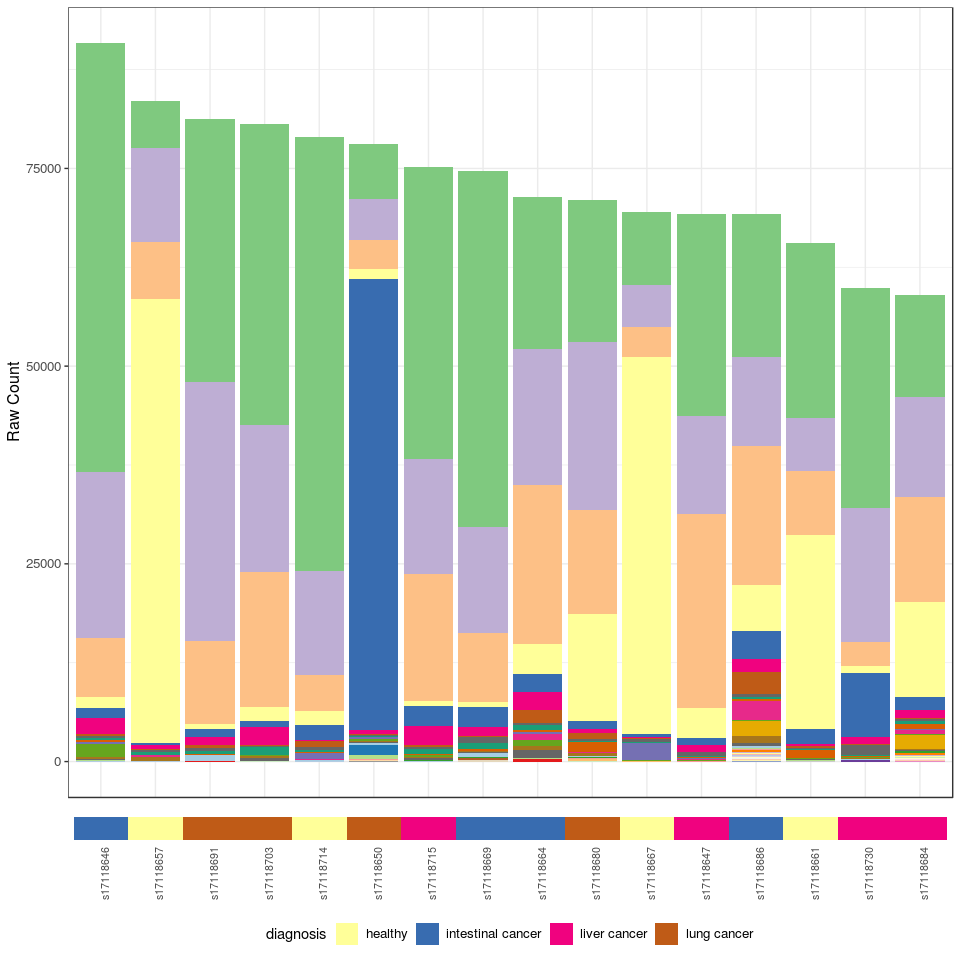
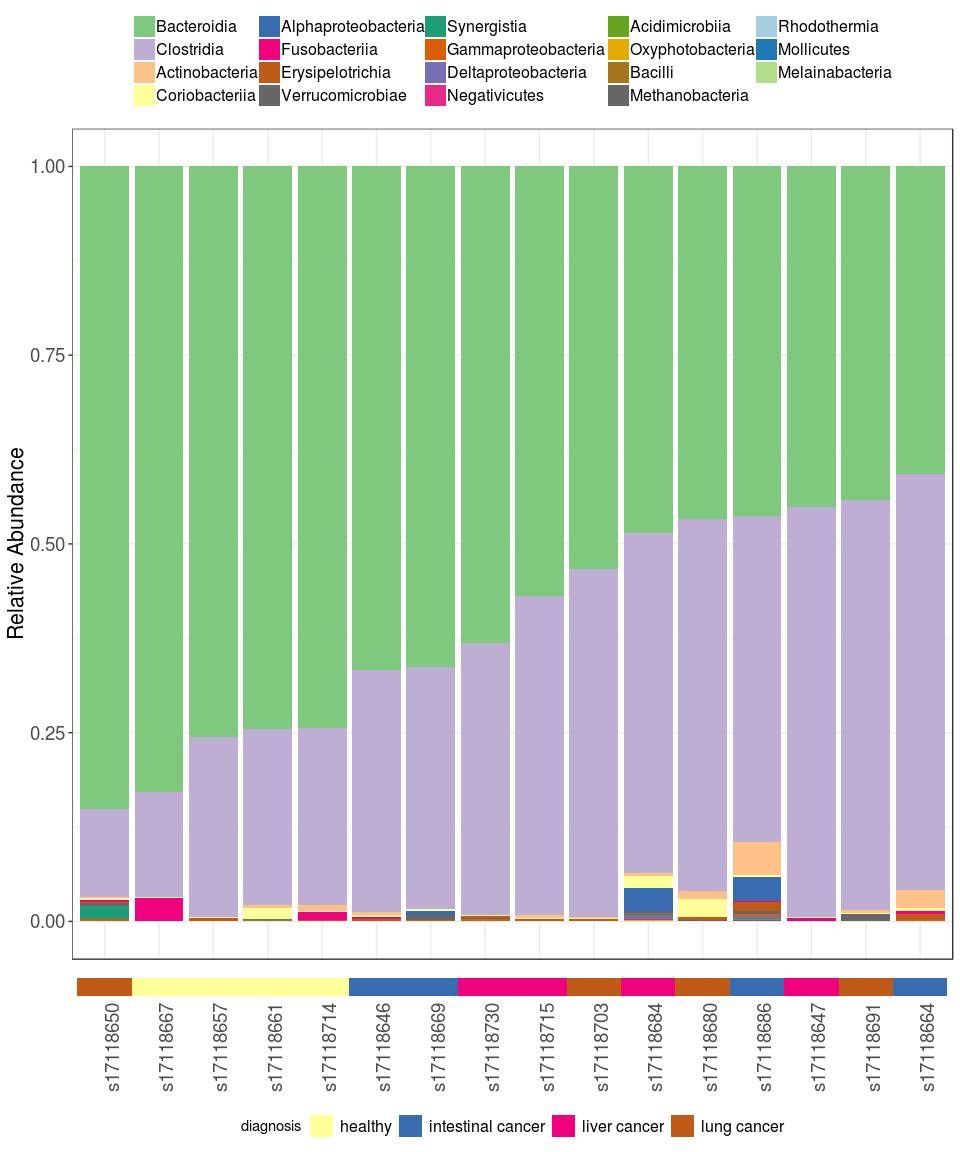
update README files

diff --git a/README.md b/README.md
@@ -90,8 +90,17 @@ track_reads_dada2(demo_dada2_result$reads_track,
 
 ![](README_files/figure-markdown_github/track%20reads-1.png)
 
-Stacked barplot of phylogenetic composition
-===========================================
+Plot sparsity - plot\_sparsity()
+================================
+
+``` r
+plot_sparsity(demo_dada2_result$seq_tab, binwidth = 10)
+```
+
+![](README_files/figure-markdown_github/sparsity-1.png)
+
+Stacked barplot of phylogenetic composition - plot\_stacked\_bar()
+==================================================================
 
 Use plot\_stacked\_bar function to plot the taxonomy level abundance in every sample. You can change the 'level' argument to plot abundance in different level, or change the 'feature' to choose different feature you want to show in x-axis.
 
@@ -99,61 +108,47 @@ Use plot\_stacked\_bar function to plot the taxonomy level abundance in every sa
 
 ``` r
 plot_stacked_bar(phyloseq = demo_phyloseq_object, 
-                 level = "Family")
+                 level = "Class")
 ```
 
 ![](README_files/figure-markdown_github/Stacked%20barplot%201-1.png)
 
-### If legends are too many to show, set legend\_position to "none"
+### Plot in relative abundance
 
 ``` r
 plot_stacked_bar(phyloseq = demo_phyloseq_object, 
-                 level = "Family", 
-                 legend_position = "none")
+                 level = "Class", 
+                 relative_abundance = TRUE)
 ```
 
-![](README_files/figure-markdown_github/Stacked%20barplot%202-1.png)
+![](README_files/figure-markdown_github/Stacked%20barplot%205-1.png)
 
-### If you want to show feature information in x-axis, set "feature" parameter
+### Set "feature" parameter to show feature information
 
 ``` r
 plot_stacked_bar(phyloseq = demo_phyloseq_object, 
-                 level = "Family", 
-                 legend_position = "none", 
+                 level = "Class", 
+                 relative_abundance = TRUE, 
                  feature = "diagnosis")
 ```
 
 ![](README_files/figure-markdown_github/Stacked%20barplot%203-1.png)
 
-### If you want the sample in specific order, pass ordered sample names to "order" parameter
+### Pass ordered sample names to "order" parameter to plot in specific order
 
 ``` r
-sample_order <- sample_names(demo_phyloseq_object)
+sample_order <- extract_metadata_phyloseq(demo_phyloseq_object) %>% arrange(diagnosis) %>% .$SampleID
 plot_stacked_bar(phyloseq = demo_phyloseq_object, 
-                 level = "Family", 
-                 legend_position = "none", 
+                 level = "Class", 
+                 relative_abundance = TRUE, 
                  feature = "diagnosis", 
                  order = sample_order)
 ```
 
 ![](README_files/figure-markdown_github/Stacked%20barplot%204-1.png)
 
-### You can also plot in relative abundance by setting "relative\_abundance" to "TRUE"
-
-``` r
-sample_order <- sample_names(demo_phyloseq_object)
-plot_stacked_bar(phyloseq = demo_phyloseq_object, 
-                 level = "Family", 
-                 legend_position = "none", 
-                 feature = "diagnosis", 
-                 order = sample_order, 
-                 relative_abundance = TRUE)
-```
-
-![](README_files/figure-markdown_github/Stacked%20barplot%205-1.png)
-
-Alpha diversity
-===============
+Alpha diversity - plot\_alpha\_diversity()
+==========================================
 
 Use plot\_alpha\_diversity to plot alpha diversity.
 
@@ -197,8 +192,8 @@ plot_alpha_diversity(phyloseq = demo_phyloseq_object,
 
 ![](README_files/figure-markdown_github/Chao1-1.png)
 
-Beta diversity
-==============
+Beta diversity - plot\_beta\_diversity()
+========================================
 
 Use plot\_beta\_diversity to plot beta diversity. Change 'method' to draw different beta diversity plot. You can locate specific sample in beta diversity plot by the table printed to the screen.
 
@@ -230,10 +225,12 @@ plot_beta_diversity(phyloseq = demo_phyloseq_object,
 
 ![](README_files/figure-markdown_github/Bray-Curtis-1.png)
 
-Log2 fold change
-================
+Log2 fold change - log2fc()
+===========================
 
 Use log2fc function to show differential analysis result.
+
+### Minimum usage
 
 ``` r
 log2fc(phyloseq = demo_phyloseq_object, 
@@ -254,41 +251,31 @@ log2fc(phyloseq = demo_phyloseq_object,
 
 ![](README_files/figure-markdown_github/log2fc%201-1.png)
 
-Choose log2fc reference and treatment by 'reference' and 'treatment' parameters. Both should be one of the levels in 'feature'.
+### Choose a taxonomy level to calculate log2fc.
 
 ``` r
 log2fc(phyloseq = demo_phyloseq_object, 
        feature = "diagnosis", 
        p_value = 0.05, 
-       reference = 'healthy', 
-       treatment = 'liver cancer')
+       level = "Genus")
 ```
 
-    ## [1] "log2 fold change (MLE): diagnosis liver cancer vs healthy"
-    ##       OTU log2FoldChange         padj
-    ## 5  OTU228       22.02247 1.956392e-05
-    ## 6  OTU342       20.01652 1.949445e-04
-    ## 1  OTU154       19.98696 6.976726e-09
-    ## 7  OTU349       19.72481 2.352799e-04
-    ## 8  OTU312       19.59086 2.405934e-04
-    ## 9  OTU164       18.40405 8.190781e-04
-    ## 11 OTU138      -10.69069 1.397755e-02
-    ## 10  OTU32      -13.83664 4.581684e-03
-    ## 4  OTU355      -22.15072 1.691639e-05
-    ## 3  OTU131      -23.65191 3.727929e-06
-    ## 2   OTU36      -27.48653 1.053817e-08
+    ## [1] "log2 fold change (MLE): diagnosis lung.cancer vs healthy"
+    ##                     Genus log2FoldChange         padj
+    ## 1 Lachnospiraceae_UCG-003       9.587806 6.994975e-06
+    ## 2            Prevotella_9      -5.937157 1.247866e-04
 
-![](README_files/figure-markdown_github/log2fc%202-1.png)
+![](README_files/figure-markdown_github/log2fc%203-1.png)
 
-Choose a taxonomy level to calculate log2fc.
+### Set "reference" and "treatment" parameters to change log2fc treatment vs reference. Both "reference" and "treatment" should be one of the levels in "feature".
 
 ``` r
 log2fc(phyloseq = demo_phyloseq_object, 
        feature = "diagnosis", 
        p_value = 0.05, 
+       level = "Genus", 
        reference = 'healthy', 
-       treatment = 'liver cancer', 
-       level = "Genus")
+       treatment = 'liver cancer')
 ```
 
     ## [1] "log2 fold change (MLE): diagnosis liver cancer vs healthy"
@@ -298,4 +285,49 @@ log2fc(phyloseq = demo_phyloseq_object,
     ## 1               Alistipes       1.900839 0.01481186
     ## 4            Prevotella_9      -4.309028 0.02188510
 
-![](README_files/figure-markdown_github/log2fc%203-1.png)
+![](README_files/figure-markdown_github/log2fc%202-1.png)
+
+Correlation - plot\_correlation()
+=================================
+
+``` r
+# Construct correlation table
+cor_tab <- demo_dada2_result$seq_tab %>% t() %>% as.data.frame() %>% 
+  rownames_to_column("OTU") %>% 
+  mutate(Healthy = s17118657 + s17118661 + s17118667 + s17118714) %>% 
+  mutate(IntestinalCancer = s17118646 + s17118664 + s17118669 + s17118686) %>% 
+  mutate(LiverCancer = s17118647 + s17118684 + s17118715 + s17118730) %>% 
+  mutate(LungCancer = s17118650 + s17118680 + s17118691 + s17118703) %>% 
+  select(OTU, Healthy, IntestinalCancer, LiverCancer, LungCancer) %>% 
+  column_to_rownames("OTU")
+knitr::kable(cor_tab[1:10,])
+```
+
+|       |  Healthy|  IntestinalCancer|  LiverCancer|  LungCancer|
+|-------|--------:|-----------------:|------------:|-----------:|
+| OTU1  |     2208|              2500|         4848|       57706|
+| OTU2  |    28834|              6315|        21387|        7086|
+| OTU3  |    40520|              1274|         2504|           0|
+| OTU4  |     3649|              6534|         4784|       19393|
+| OTU5  |     6940|              1157|         1955|       21328|
+| OTU6  |     2163|             21543|         5482|        1346|
+| OTU7  |     5611|              8962|         6150|        7574|
+| OTU8  |     1768|             15421|         2522|        7851|
+| OTU9  |     8920|             14085|         1899|        1119|
+| OTU10 |     6002|              4026|         9287|        6433|
+
+### Minimum usage
+
+``` r
+plot_correlation(cor_tab, x = "IntestinalCancer", y = "Healthy")
+```
+
+![](README_files/figure-markdown_github/correlation%201-1.png)
+
+### Multiple correlation in one plot
+
+``` r
+plot_correlation(cor_tab, x = c("IntestinalCancer", "LiverCancer", "LungCancer"), y = "Healthy")
+```
+
+![](README_files/figure-markdown_github/correlation%202-1.png)
